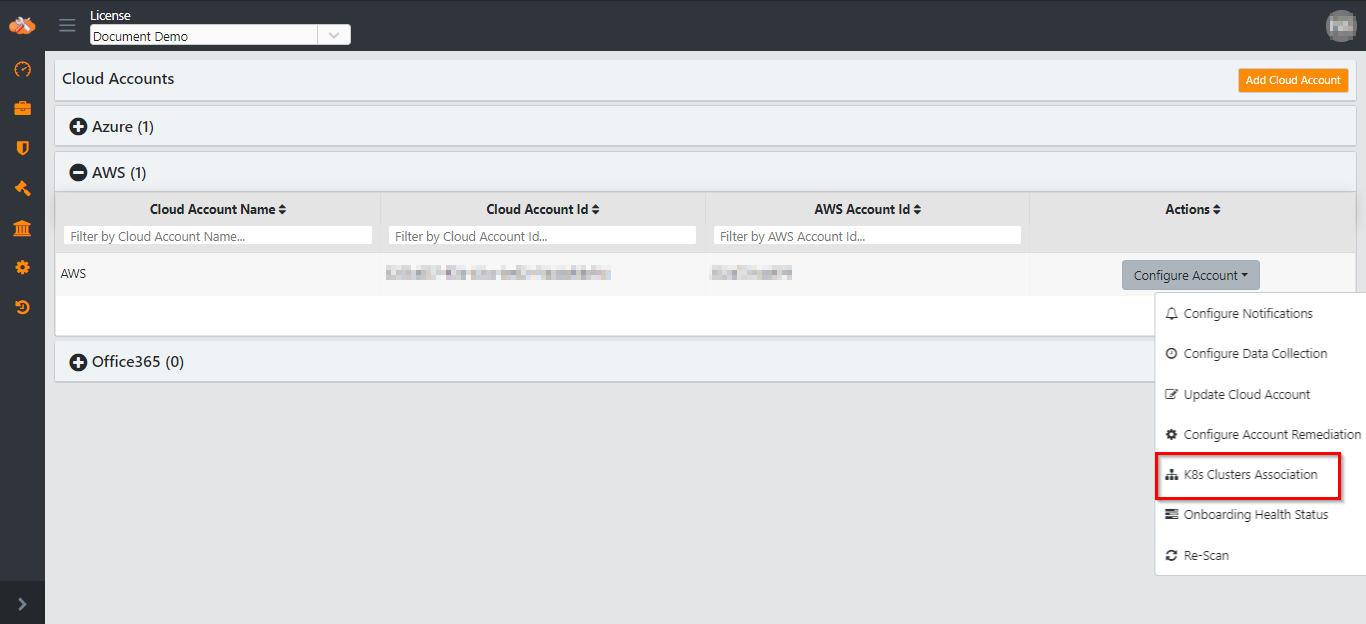
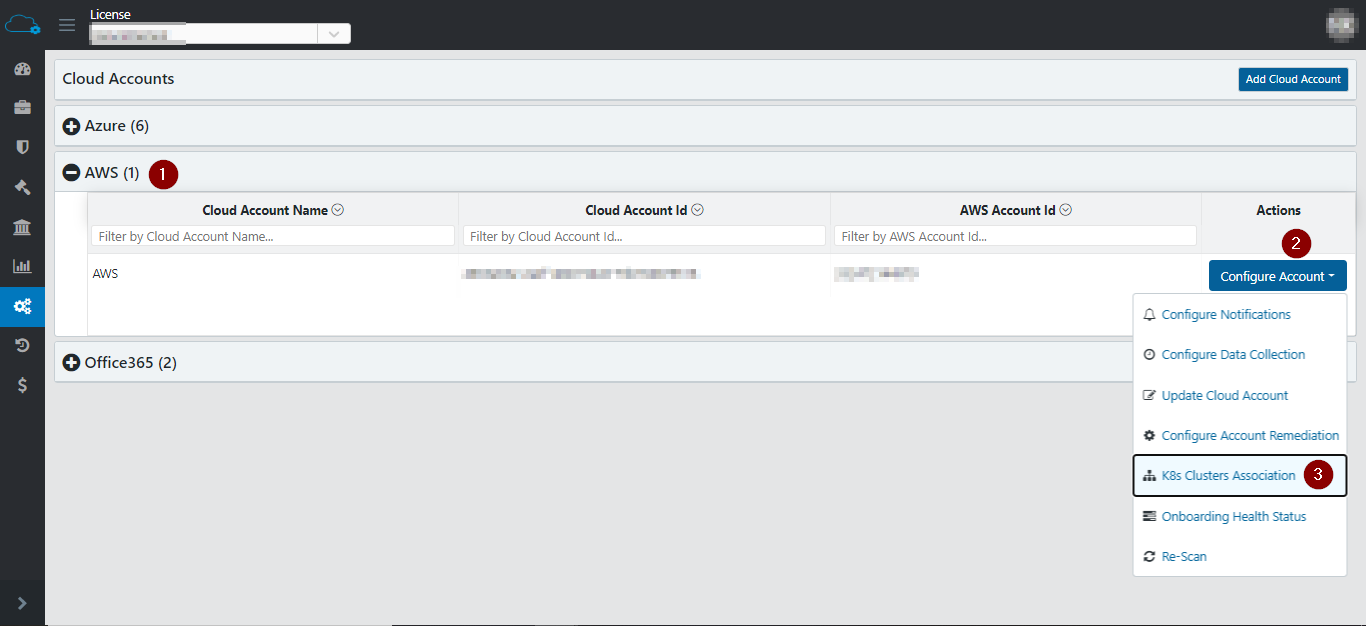
Updated K8s pages for new UI

diff --git a/docs/onboardingGuide/configureCloudneetiAgentInEKS.md b/docs/onboardingGuide/configureCloudneetiAgentInEKS.md
@@ -35,16 +35,14 @@ Login to Cloudneeti portal with **License Admin** role
 
     ![Associate Kubernetes](.././images/kubernetes/CN_ManageK8Cluster_EKS_2.png#thumbnail)
 
-4.  Add **Kubernetes Cluster Name**
+4.  Add **Kubernetes Cluster Name** (1)
 
-5.  **Save**
+5.  Select **Cluster Hosting** (2) from dropdown and **Save**
 
-    ![Associate Kubernetes](.././images/kubernetes/CN_ManageK8Cluster_EKS_3.png#thumbnail)
+    ![Associate Kubernetes](.././images/kubernetes/CN_ManageK8Cluster_EKS.png#thumbnail)
 
 6.  It will download a JSON file **cloudneeti-agent-config** which will be used in
     step 2 to update agent configuration script.
-
-    ![Associate Kubernetes config](.././images/kubernetes/CN_ConfigFile_EKS.png#thumbnail)
 
 Sample JSON file
 
